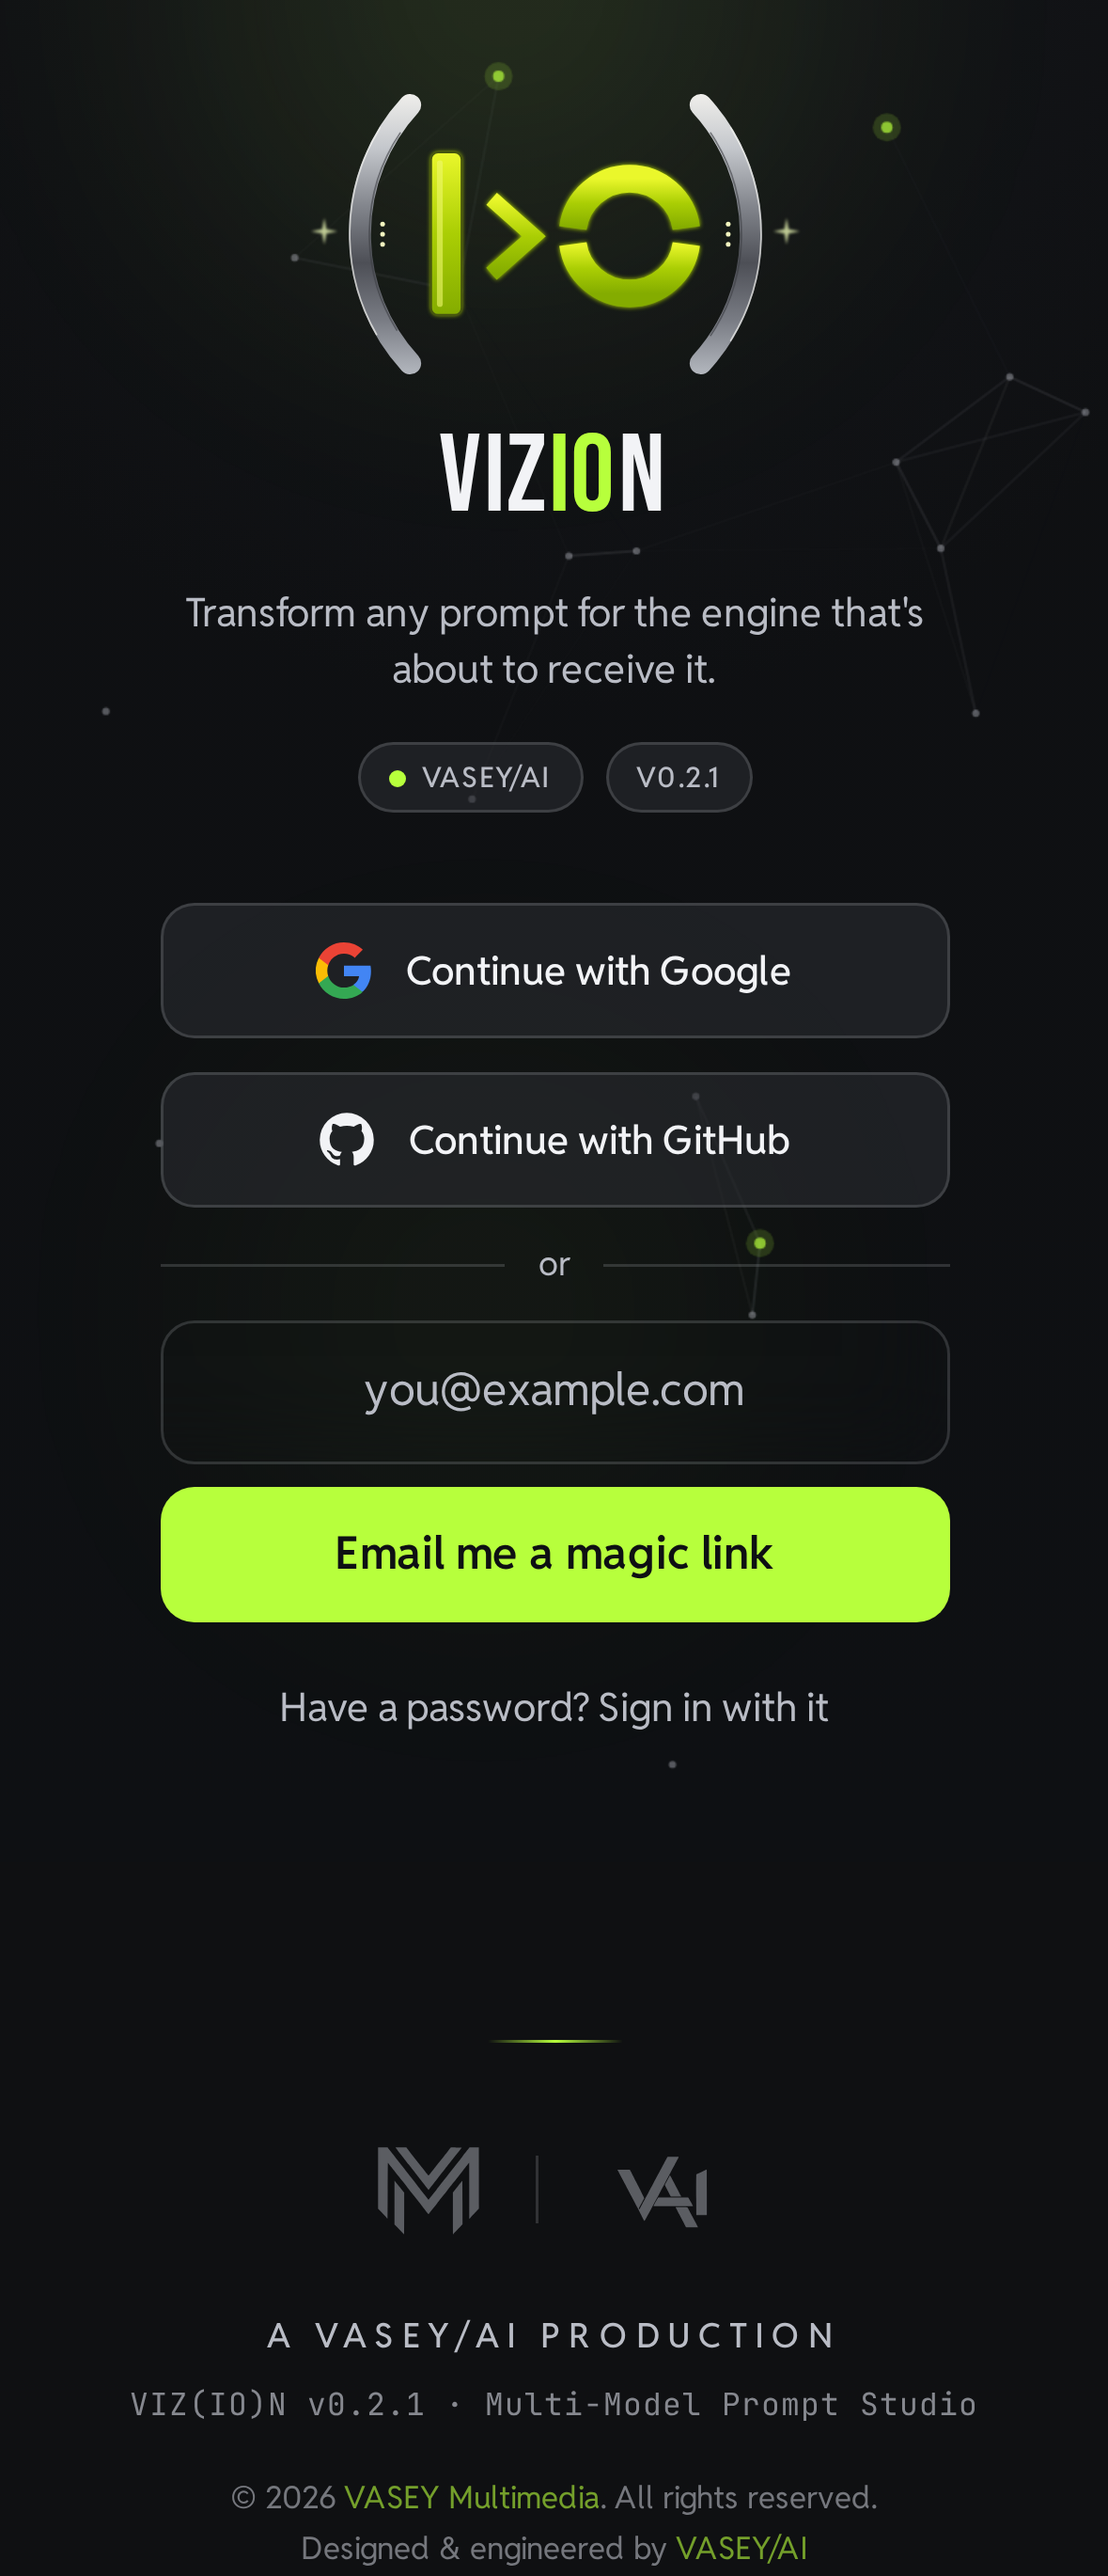
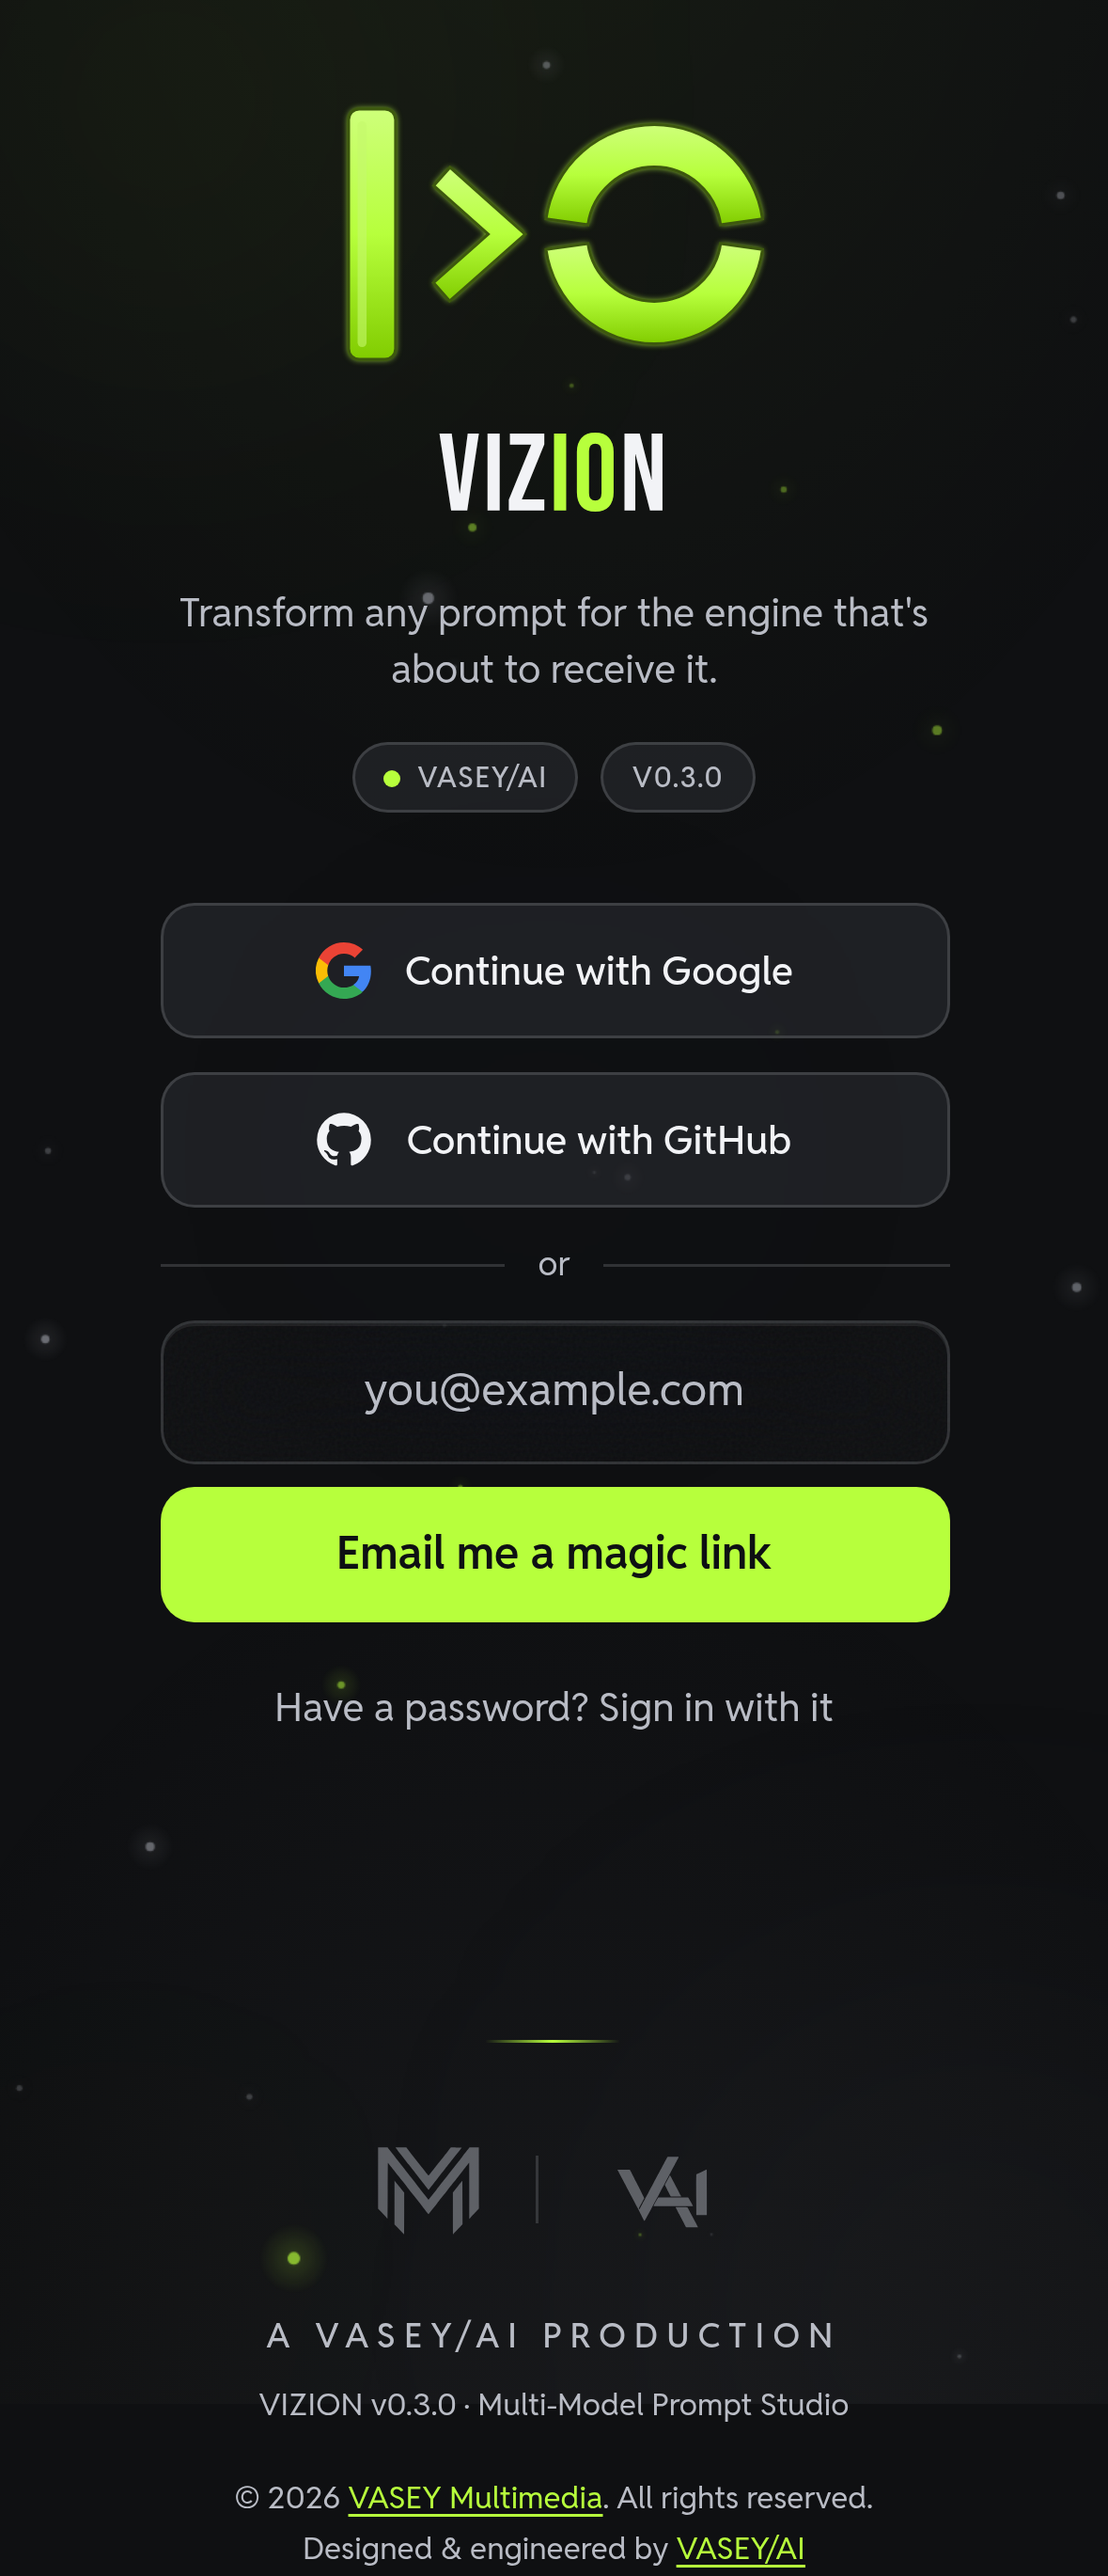
docs(audits): approved wave lands — implementation report + preview recapture (VAR-D1)
docs/preview.png recaptured from the shipped v0.3.0 production build per
the recorded recipe (same 1179x2739 frame; bare I›O mark, current pills
and footer); README hero comment + alt updated to match. The audit report
gains Part 2: per-item dispositions for all 24 approved VAR items, the
option chosen where one existed, validation performed, and remaining
risks. CHANGELOG carries the approved-wave entry.

what/why: approved item VAR-D1 + the protocol's final implementation
report  verified: lint 0, typecheck 0, unit 1260/1260, build clean

Claude-Session: https://claude.ai/code/session_015xC5MpY2ipspb4Yrzdx4XA

diff --git a/docs/audits/03-design-audit-2026-08-09.md b/docs/audits/03-design-audit-2026-08-09.md
@@ -149,3 +149,70 @@ Reply with item IDs, e.g. *"Approve VAR-01, VAR-04, VAR-D1"* · *"Approve all
 P2"* · *"Reject VAR-12; revise VAR-03 using option (b)"*. The ten CMCs above
 are already in this PR — flag any to revert. Nothing else ships without your
 word.
+
+---
+
+# Part 2 — Implementation report (2026-08-09, post-approval)
+
+Owner approval: **"Approve all listed VAR items"** — VAR-01…VAR-23 + VAR-D1.
+All 24 are implemented across seven commits (waves B1–B7 + this docs wave),
+each gated (lint 0 · typecheck 0 · unit green · build clean) before commit.
+Where an item offered bounded options, the choice made is recorded below.
+
+## Dispositions
+
+| ID | Disposition | Choice made / validation |
+| --- | --- | --- |
+| VAR-01 | done | Labels wrap via `overflow-wrap:anywhere` on the rig label span (break-word does not lower flex min-content — measured); at 200% root scale all six labels render fully, cells grow 56→100px; default scale single-line, unclipped |
+| VAR-02 | done | Option (a), extended: `metadata.appleWebApp` removed entirely — even without `statusBarStyle` it made React own and re-insert a status-bar tag (measured both ways); capable/title metas hand-written; live probes 3/3 per scheme show exactly one tag with resolved polarity. iOS launch-time caveat recorded (ios-verification.md) |
+| VAR-03 | done | Option (a): ADR-0004 Q7 amended to the de-facto rule; composer/revise/generation textareas → `text-base`, drafts search → the library search recipe |
+| VAR-04 | done | Both detail queries check `error` and render the library's can't-load card; head query shared via React `cache()` |
+| VAR-05 | done | Meter fills use `bg-accent`/`bg-amber-ink` (dark unchanged; light gains 5.5:1-class boundaries) |
+| VAR-06 | done | RedditSans-700 + JetBrains 500/700 dropped; `font-weights.test.ts` pins vendored ⊆ used in both directions |
+| VAR-07 | done | `rounded-md` → `rounded` (the primitive's radius) |
+| VAR-08 | done | Error treatment dirty-gated; slug rule also enforced in `updateProfileAction` |
+| VAR-09 | done | Enhance skeleton = one solid chassis with rails/editor/tray/CTA; library gains the quick-chip row + card anatomy; settings centers the avatar hero; the library comment's absolute claim scoped honestly |
+| VAR-10 | done | Archived-view delete uses the trash view's `XMark`; new `FolderMinusMark` + `ClipboardMark` glyphs; U+2300-block scan (⌁ allowlisted) added to ui-contracts |
+| VAR-11 | done | Load more → `btn-secondary` centered (the recorded balance rule); filtered-empty → quiet status line in both views (cards reserved for true-empty; recorded wording kept); prompts search gains the drafts toolbar's visible Search button |
+| VAR-12 | done | `.btn-laser:disabled { opacity: 0.6 }` (the flagship CTAs' value); 17 per-site utilities removed; ui-contracts bans recurrence |
+| VAR-13 | done | Spinner added to the Re-enhance pending state, matching the two sibling CTAs |
+| VAR-14 | done | `right: max(1rem, calc((100vw - 640px)/2 + 1rem))` — 16px inside the column at 1280 (measured), phones unchanged |
+| VAR-15 | done | Numbered convention (`icon0.svg` + `icon1.png`); SSR head emits both links, SVG first (verified) |
+| VAR-16 | done | `generateMetadata` with the prompt's title; missing id 404s from metadata, curing the contradictory tab |
+| VAR-17 | done | "► RE-ENHANCE"; one exported `NOT_CONFIGURED_MESSAGE` renders on both surfaces |
+| VAR-18 | done | Option (b): aria-label → "VASEY Multimedia" (zero visible change; matches the sibling VASEY/AI label treatment) |
+| VAR-19 | done | `text-[0.6875rem]` ×2 (identical at default root; scales with user font preference) |
+| VAR-20 | done | "center" in copy + the pinned test string, one commit |
+| VAR-21 | done | `flex-wrap` on the compare rail; readout drops to its own line (probe: wraps, no page pan) |
+| VAR-22 | done | Thin `mr-[0.25ch]` between opposite-op diff neighbours (presentation only) |
+| VAR-23 | done | Per-section error slots: tags at top, restore/version-load beside History, revise/save/delete keep the original line |
+| VAR-D1 | done | `docs/preview.png` recaptured per the recorded recipe from the shipped v0.3.0 build (same 1179×2739 frame); README comment + alt updated |
+
+## Validation performed
+
+Per batch: full gate (lint · typecheck · unit · production build). Rendered:
+live computed-style probes and screenshots against the running production
+build (stub Supabase) at 320/390/1280, dark + light, for VAR-01 (200% root
+scale), VAR-02 (3× runs per scheme), VAR-05, VAR-12, VAR-14, VAR-15, VAR-21
+(byte-copied-markup probe; live version rows aren't seedable in this stub),
+plus the CMC validations in Part 1. Not renderable here: a real streaming
+run (provider keys), WebKit/real iOS (environment; caveats recorded), forced
+query failures for VAR-04/CMC-07 (source mirrors the sibling branches).
+
+Tests: two intent-preserving assertion updates (drafts filtered-empty line
+form; icon-alpha path to the numbered icon) and one string pin updated with
+its copy (VAR-20), each in the same commit as its change. New guards:
+`.btn-laser:disabled` + per-site-dim ban, U+2300-block scan, font-weight
+vendored⊆used suite. Suite grew 1254 → 1260, all green.
+
+## Remaining risks / unverified
+
+- iOS launch-time status-bar behavior without a static tag (VAR-02) — not
+  verifiable in this environment; flagged for the next on-device pass.
+- The composer textarea's 14→16px raises its rendered line length on
+  desktop; measured fine at 320–1280, but worth an on-device glance.
+- OBS-1 (BrandPills tracking), OBS-2 (FAB/Connection overlap) remain
+  observations only; DSN-019, PWA-07, PRI-002 stay with their owners.
+
+No unapproved visible change shipped: every visible delta traces to a
+listed CMC or an approved VAR item above.

diff --git a/CHANGELOG.md b/CHANGELOG.md
@@ -6,6 +6,31 @@ All notable changes to VIZION are documented here. The format follows
 
 ## [Unreleased]
 
+### Design audit (2026-08-09): the approved wave — all 24 proposals land
+
+The owner approved every VAR item in the audit report
+(`docs/audits/03-design-audit-2026-08-09.md`, which now carries the full
+implementation record and per-item dispositions). Highlights, by what a user
+sees: ModeRig labels survive 200% OS text scaling by wrapping instead of
+clipping to fragments; the FAB anchors to the app column instead of the
+viewport corner at desktop widths; the version-compare rail wraps at 320px;
+every saved prompt's tab carries its own title; a transient fetch failure on
+the prompt detail renders a can't-load card instead of a false 404 or "0
+versions"; PromptDetail errors surface beside the controls that raised them;
+the storage meter keeps its meaning in light theme via the -ink fills; the
+library's two sibling views share one furniture set (btn-secondary centered
+Load more, quiet filtered-empty line, visible Search commit) and the Q7 input
+recipe is amended in ADR-0004 to the de-facto two-tier rule with four
+stragglers converted (the composer textarea finally wears its recorded 16px);
+exactly one iOS status-bar meta ships, owned by ThemeManager (the
+metadata-system duplicate measured and removed); unused vendored font weights
+are dropped with a vendored⊆used guard test; the three U+2300 text glyphs
+join the SVG glyph language with a codepoint-scan guard; the scalable SVG
+favicon actually ships via the numbered icon convention; one
+`.btn-laser:disabled` dim replaces the 8-vs-9 per-site split; and
+`docs/preview.png` is recaptured from the shipped v0.3.0 build per the
+recorded recipe. Full before/after and validation per item in the report.
+
 ### Design audit (2026-08-09): confirmed minor corrections
 
 An approval-gated design audit (report + approval table:

diff --git a/README.md b/README.md
@@ -27,8 +27,8 @@ _Clarify · Polish · Expand · Condense · Reformat · Adapt — the same idea,
 
 <div align="center">
 
-<!-- Live capture of the shipped sign-in gate, rendered from the production build (currently a stale v0.2.1 capture — regeneration pending approval). -->
-<img src="./docs/preview.png" alt="VIZION sign-in gate — the aperture glyph, wordmark, VASEY/AI + version pills, and the three Supabase auth methods" width="300" />
+<!-- Live capture of the shipped sign-in gate (v0.3.0), rendered from the production build. -->
+<img src="./docs/preview.png" alt="VIZION sign-in gate — the I›O mark, wordmark, VASEY/AI + version pills, and the three Supabase auth methods" width="300" />
 
 </div>
 
